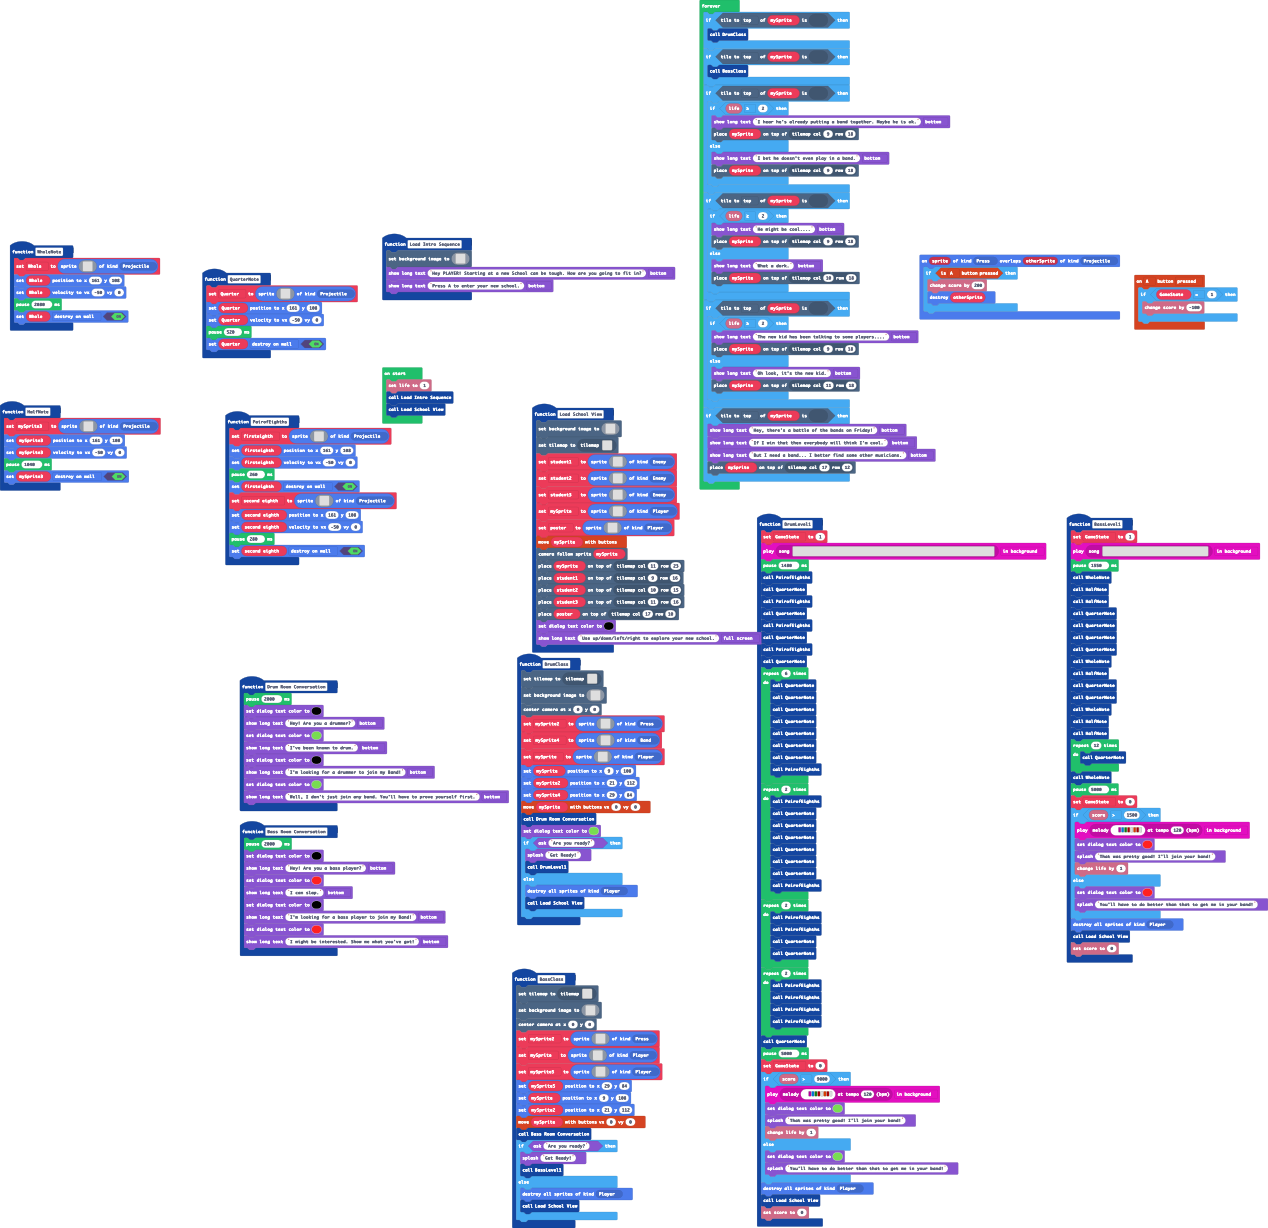
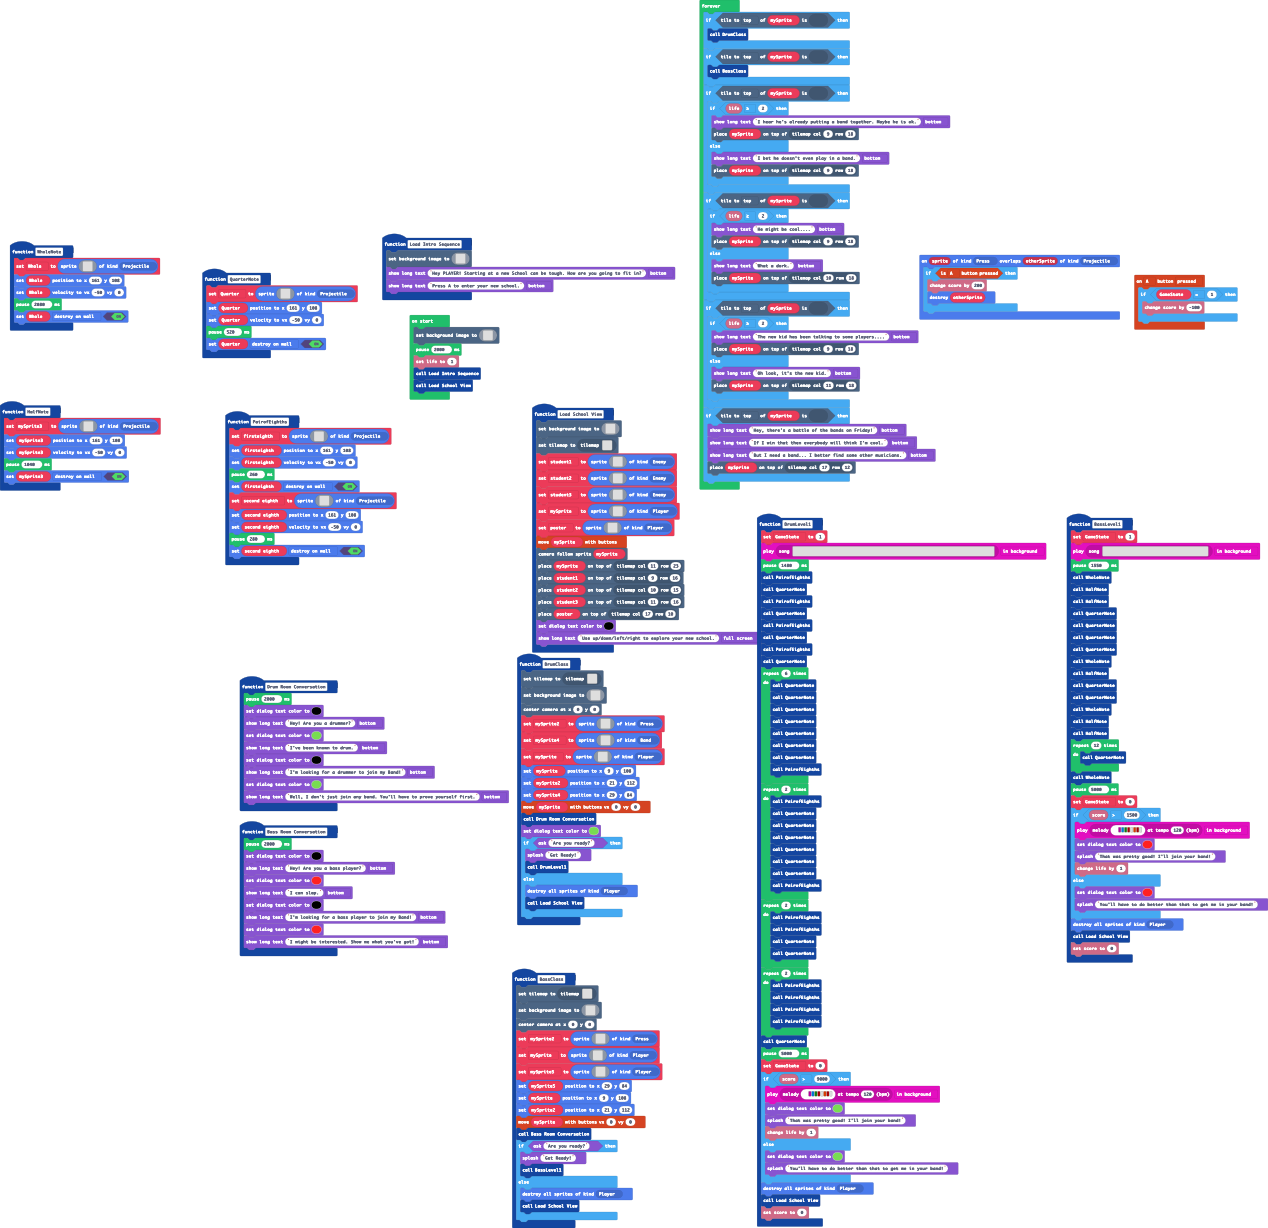
Title Screen

Changed region(s): [[0.2768, 0.2476, 0.3998, 0.3713], [0.1845, 0.6808, 0.2153, 0.7117]]

diff --git a/images.g.ts b/images.g.ts
@@ -642,6 +642,129 @@ bbbbbbbbbbbbbbbbbbbbbbbbbbbbbbbbbbbbbbbbbbbbbbbbbbbbbbbbbbbbbbbbbbbbbbbbbbbbbbbb
 . . . . c b 5 5 5 5 b c . . . . 
 . . . . . f f f f f f . . . . . 
 `;
+            case "image16":
+            case "Band Together":return img`
+9999999999999999999999999999999999999999999999999999999999999999999999999999999999999999999999999999999999999999999999999999999999999999999999999999999999999999
+9999999999999999999999999999999999999999999999999999999999999999999999999999999999999999999999999999999999999999999999999999999999999999999999999999999999999999
+9999999999999999999999999999999999999999999999999999999999999999999999999999999999999999999999999999999999999999999999999999999999999999999999999999999999999999
+9999999999999999999999999999999999999999999999999999999999999999999999999999999999999999999999999999999999999999999999999999999999999999999999999999999999999999
[116 lines of base64/hex data omitted]
+`;
         }
         return null;
     })

diff --git a/main.ts b/main.ts
@@ -365,6 +365,8 @@ let mySprite2: Sprite = null
 let Quarter: Sprite = null
 let mySprite3: Sprite = null
 let GameState = 0
+scene.setBackgroundImage(assets.image`Band Together`)
+pause(2000)
 info.setLife(1)
 Load_Intro_Sequence()
 Load_School_View()
